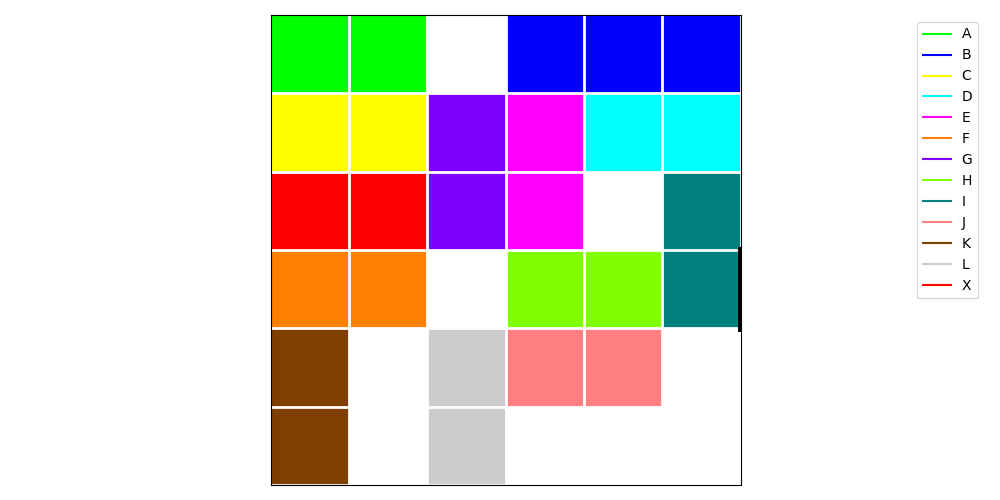
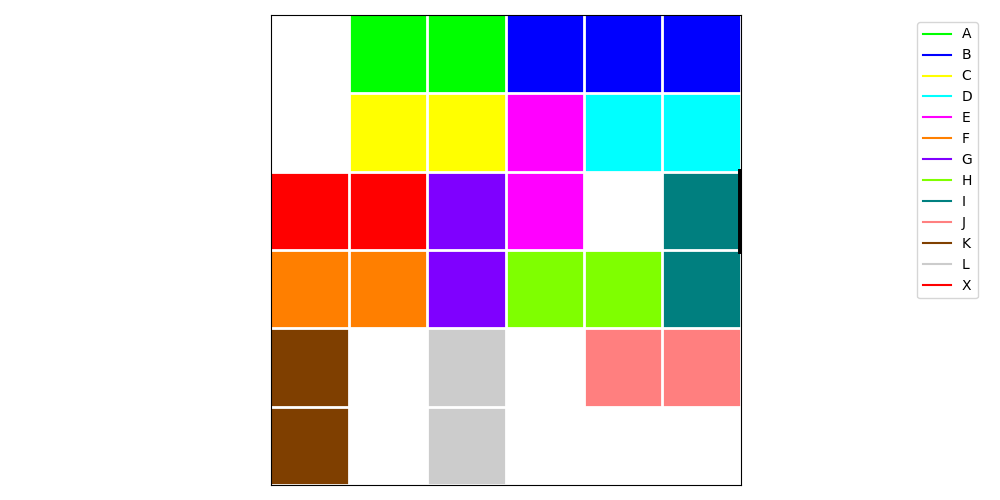
board search bugs fixen

diff --git a/code_files/classes/board_setup.py b/code_files/classes/board_setup.py
@@ -41,15 +41,9 @@ class Vehicle:
 
         ## Er was een -1 in de tuple waardoor generate_random_board niet werkte
         if self.orientation == 'H':
-<<<<<<< HEAD
-            self.positions = [(position[0] + i -1, position[1] -1) for i in range(self.length)]
-        else:
-            self.positions = [(position[0] -1, position[1] + i -1) for i in range(self.length)]
-=======
             self.positions = [(position[0] + i - 1, position[1] - 1) for i in range(self.length)]
         else:
             self.positions = [(position[0] - 1, position[1] + i - 1) for i in range(self.length)]
->>>>>>> a28fddbadc46a82be6cf081c24a84bce5d14e635
 
     def change_position(self, new_positions):
         """
@@ -276,7 +270,7 @@ class Board:
     def breadth_search(self):
         iterations = 0
         current_layer_boards = []
-        current_layer_index = 0
+        current_layer_index = None
         former_layer_boards = [(self, (None, None, None))]
         former_layer_index = 0
         board: Board = copy.deepcopy(former_layer_boards[former_layer_index][0])
@@ -284,14 +278,13 @@ class Board:
         while not board.is_won() and iterations < 1000000:
             iterations += 1
             name, movement, position, current_layer_boards, current_layer_index, former_layer_boards, former_layer_index = breadth_search(current_layer_boards, current_layer_index, former_layer_boards, former_layer_index)
-            if name != None:
-                board: Board = copy.deepcopy(former_layer_boards[former_layer_index][0])
-                vehicle = board.find_vehicle(name)
-                board.update_positions_set(vehicle, position)
-                current_layer_boards.append((board, (name, movement, position)))
-                board.print_board()
-                time.sleep(0.05)
-                print(name, movement)
+            board: Board = copy.deepcopy(former_layer_boards[former_layer_index][0])
+            vehicle = board.find_vehicle(name)
+            board.update_positions_set(vehicle, position)
+            current_layer_boards.append((board, (name, movement, position)))
+            #board.print_board()
+            #time.sleep(0.05)
+            #print(name, movement)
             if iterations % 1000 == 0:
                 print(iterations)
 

diff --git a/code_files/algorithms/breadth_search.py b/code_files/algorithms/breadth_search.py
@@ -13,11 +13,15 @@ def breadth_search(current_layer_boards: list, current_layer_index, former_layer
     Randomly select a step that is valid. Steps that undo the last move are invalid
     """
 
+    if current_layer_index != None and current_layer_index < 0:
+        current_layer_index = None
+        former_layer_index += 1
+
     if former_layer_index == len(former_layer_boards):
         former_layer_boards.clear()
         former_layer_boards = current_layer_boards[:]
         former_layer_index = 0
-        current_layer_index = 0
+        current_layer_index = None
         current_layer_boards.clear()
 
     board = former_layer_boards[former_layer_index][0]
@@ -44,14 +48,12 @@ def breadth_search(current_layer_boards: list, current_layer_index, former_layer
         raise ValueError("No possible moves found")
     
     # Select a random vehicle and a random move
-    if current_layer_index < len(options):
+    if current_layer_index == None:
+        current_layer_index = len(options)
+
+    if current_layer_index >= 0:
+        current_layer_index -= 1
         vehicle = options[current_layer_index][0]
         movement, position = options[current_layer_index][1] 
-        current_layer_index += 1
-
-    else:
-        current_layer_index = 0
-        former_layer_index += 1
-        vehicle, movement, position = None, None, None
 
     return vehicle, movement, position, current_layer_boards, current_layer_index, former_layer_boards, former_layer_index

diff --git a/code_files/algorithms/no_reverse.py b/code_files/algorithms/no_reverse.py
@@ -11,10 +11,6 @@ def random_without_reverse(board, last_move):
     """
     Randomly select a step that is valid. Steps that undo the last move are invalid
     """
-<<<<<<< HEAD
-
-=======
->>>>>>> a28fddbadc46a82be6cf081c24a84bce5d14e635
     options = {}
     # For each vehicle on the board, check if it can move
     for vehicle in board.vehicles_list:
@@ -45,4 +41,3 @@ def random_without_reverse(board, last_move):
     movement, position = random.choice(options[vehicle])
 
     return vehicle, movement, position
-
